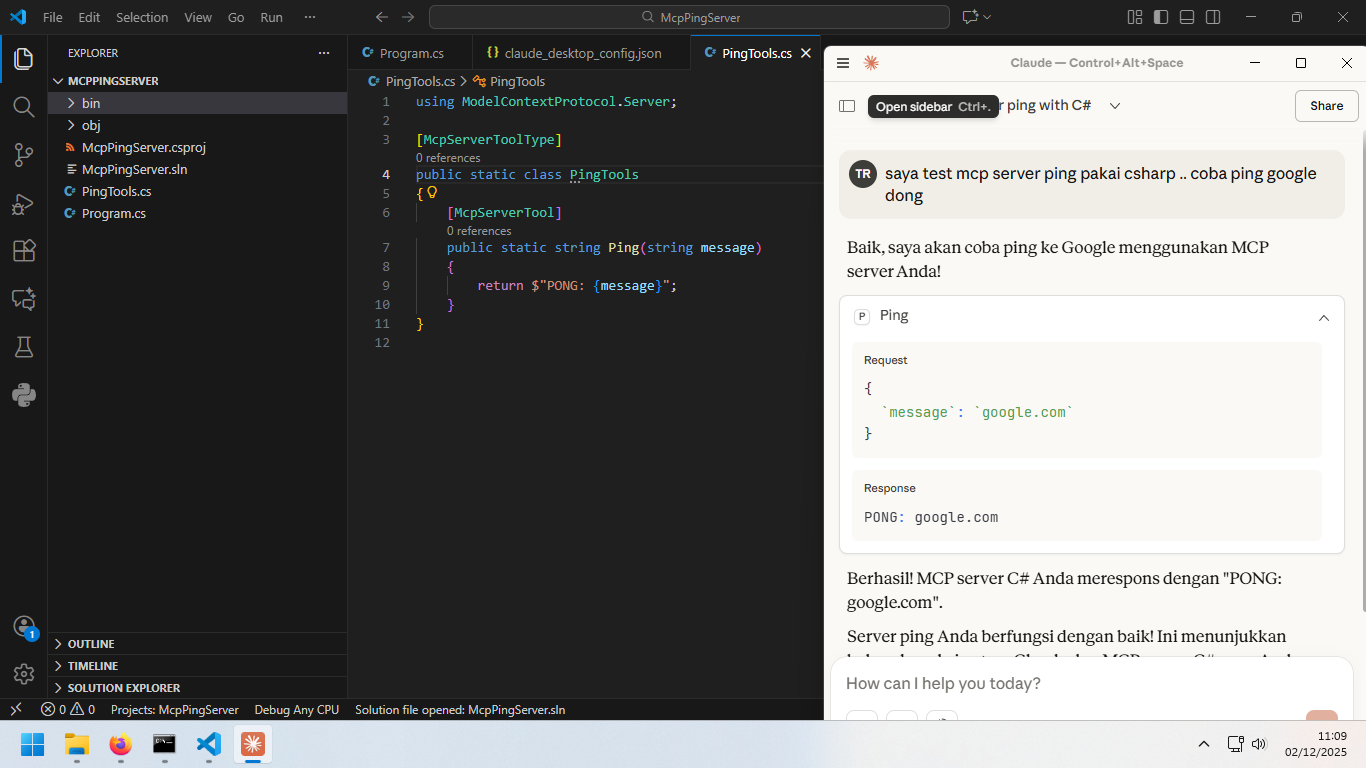
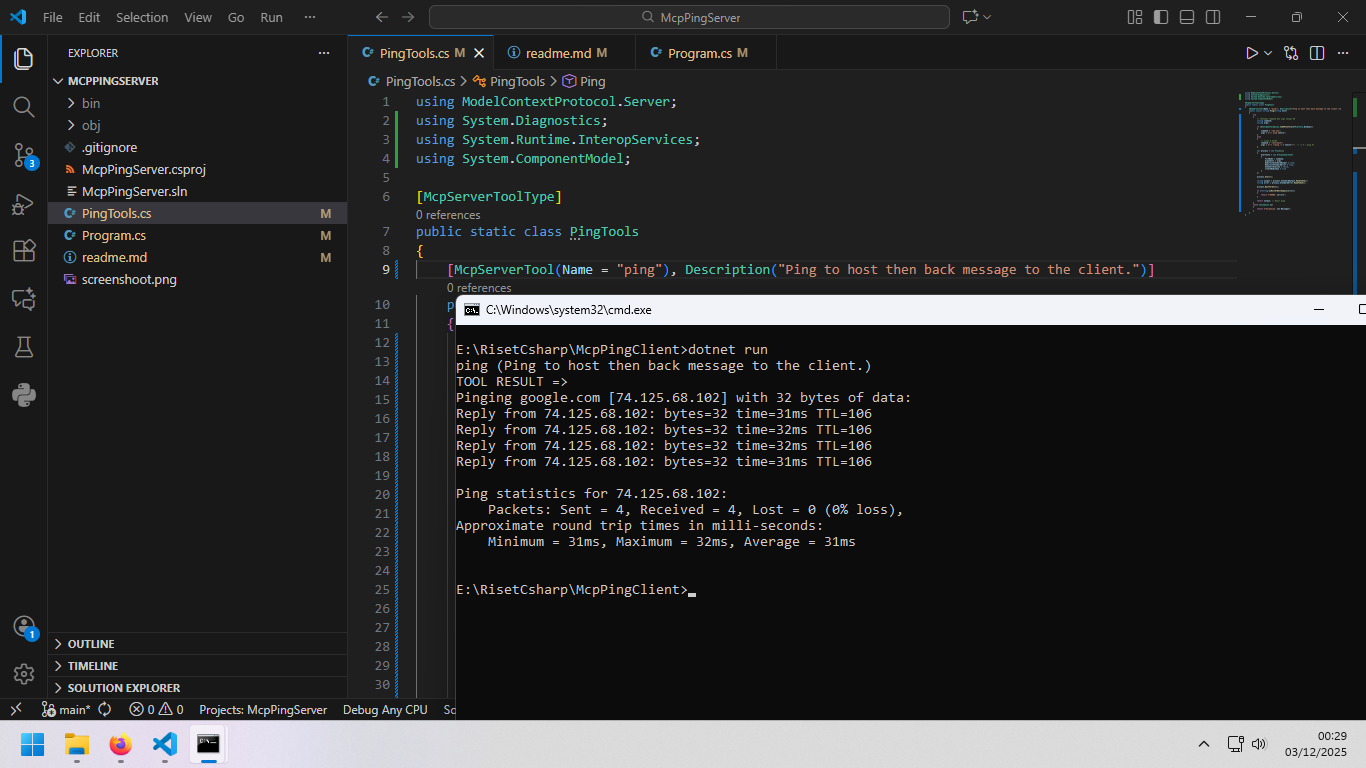
update

diff --git a/PingTools.cs b/PingTools.cs
@@ -1,11 +1,62 @@
 using ModelContextProtocol.Server;
+using System.Diagnostics;
+using System.Runtime.InteropServices;
+using System.ComponentModel;
 
 [McpServerToolType]
 public static class PingTools
 {
-    [McpServerTool]
+    [McpServerTool(Name = "ping"), Description("Ping to host then back message to the client.")]
     public static string Ping(string host)
     {
-        return $"PONG: {host}";
+        try
+        {
+            // Tentukan command dan args sesuai OS
+            string command;
+            string args;
+
+            if (RuntimeInformation.IsOSPlatform(OSPlatform.Windows))
+            {
+                command = "cmd.exe";
+                args = $"/c ping {host}";
+            }
+            else
+            {
+                // Linux & macOS
+                command = "/bin/bash";
+                args = $"-c \"ping -c 4 {host}\"";  // -c 4 = ping 4x
+            }
+
+            var process = new Process()
+            {
+                StartInfo = new ProcessStartInfo
+                {
+                    FileName = command,
+                    Arguments = args,
+                    RedirectStandardOutput = true,
+                    RedirectStandardError = true,
+                    UseShellExecute = false,
+                    CreateNoWindow = true
+                }
+            };
+
+            process.Start();
+
+            string output = process.StandardOutput.ReadToEnd();
+            string error = process.StandardError.ReadToEnd();
+
+            process.WaitForExit();
+
+            if (!string.IsNullOrWhiteSpace(error))
+            {
+                return $"ERROR: {error}";
+            }
+
+            return output; // Hasil ping
+        }
+        catch (Exception ex)
+        {
+            return $"Exception: {ex.Message}";
+        }
     }
 }

diff --git a/Program.cs b/Program.cs
@@ -1,7 +1,6 @@
 // See https://aka.ms/new-console-template for more information
 // Console.WriteLine("Hello, World!");
 using Microsoft.Extensions.Hosting;
-using ModelContextProtocol.Server;
 using Microsoft.Extensions.Logging;
 using Microsoft.Extensions.DependencyInjection;
 
@@ -15,6 +14,4 @@ builder.Services
     .WithStdioServerTransport()
     .WithToolsFromAssembly();
 
-var host = builder.Build();
-await host.RunAsync();
-
+await builder.Build().RunAsync();

diff --git a/readme.md b/readme.md
@@ -1,1 +1,6 @@
+##### build the MCP
+```bash
+dotnet publish -c Release -r win-x64 --self-contained true
+```
 ![alt text](screenshoot.png)
+![alt text](screenshoot2.png)
